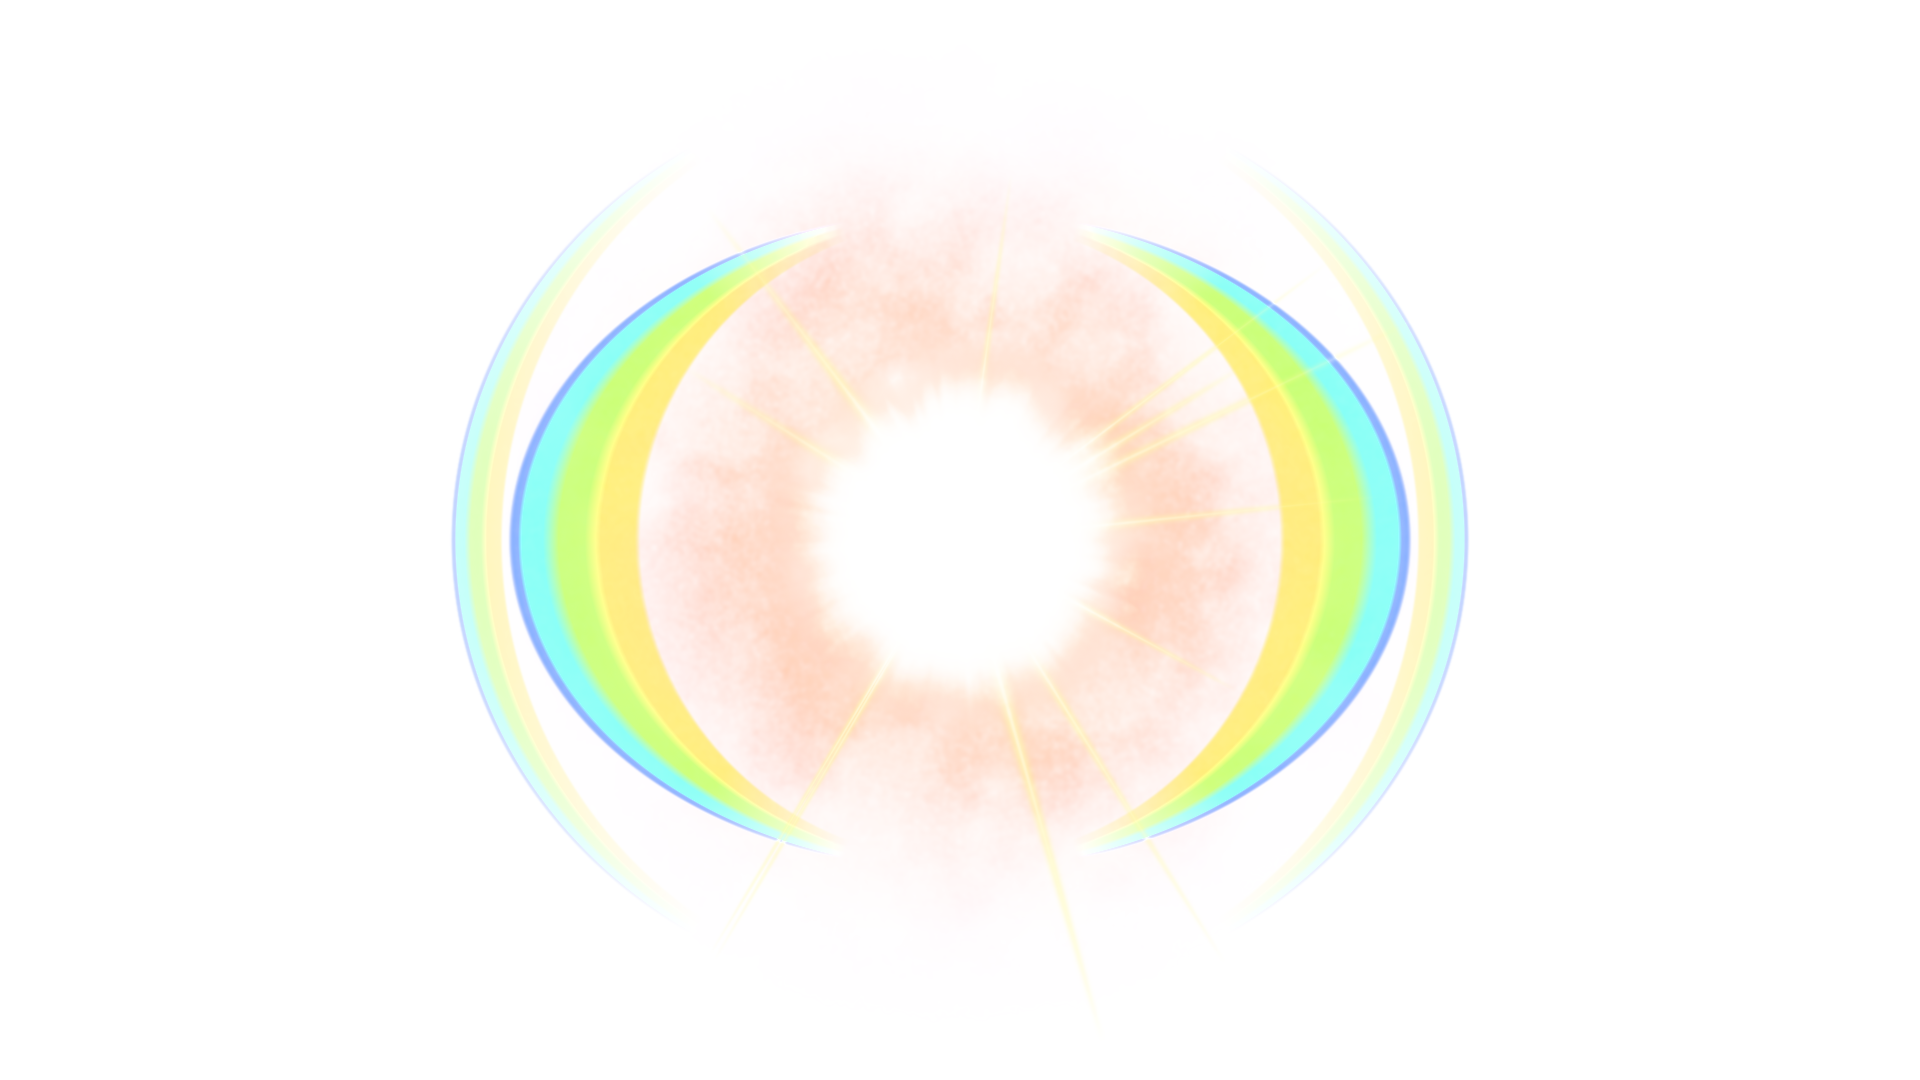
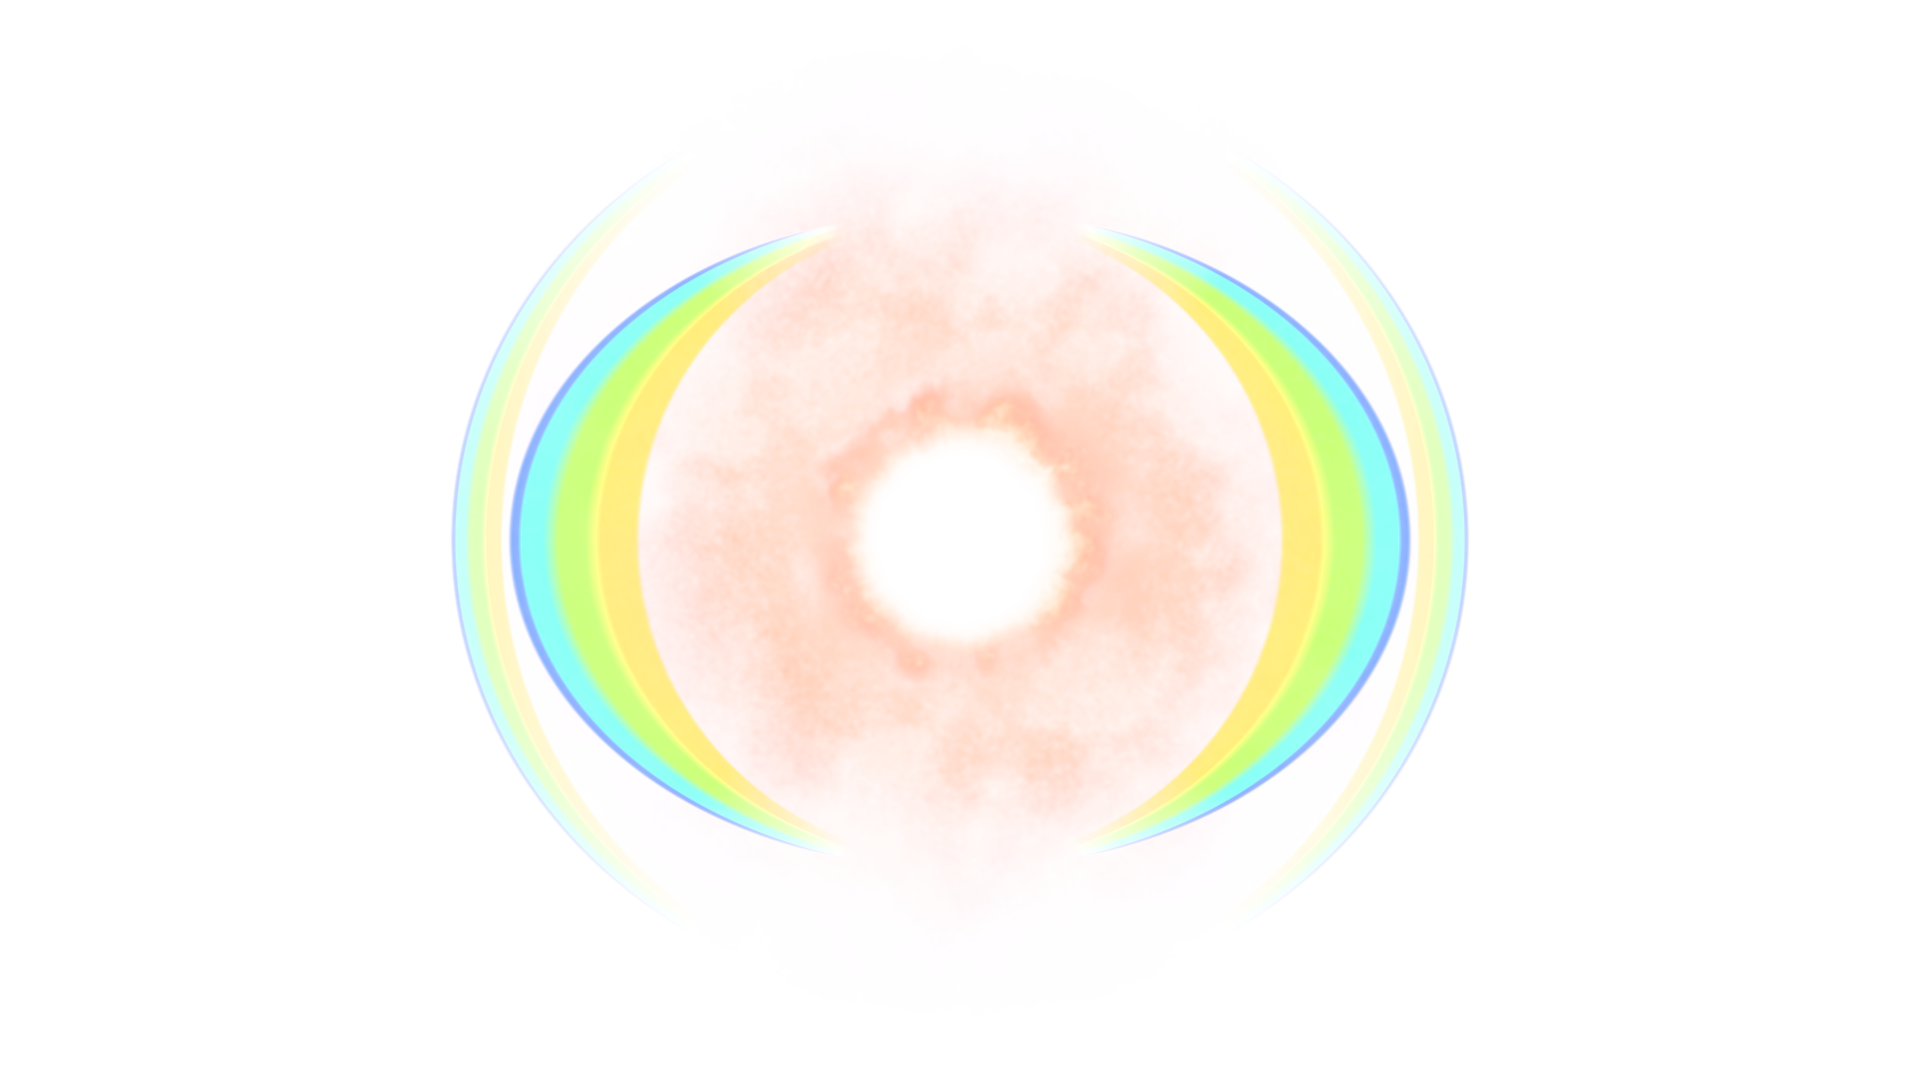
Efekt 10 küre: hüzmeler kaldırıldı, titanyum küçük ve net kenarlı, dışına yoğun duman hattı
Claude-Session: https://claude.ai/code/session_01E9c1WiJsMc9gXSJZ9D4z6g

diff --git a/arayuz/araclar/efekt10/kure.py b/arayuz/araclar/efekt10/kure.py
@@ -33,14 +33,20 @@ duman=np.clip(0.72+0.28*ndimage.gaussian_filter(fbm(17,[10,24,48],[0.6,1.0,0.8])
 dal=0.6*acisal(5,40,1.5)+0.4*acisal(6,90,1.0)
 Rd=R-10*dal
 dcol=renk_r(Rd,[(0,"#F4A482"),(105,"#F4A482"),(150,"#C07050"),(180,"#8C4A38"),(225,"#7A5050"),(260,"#6E5C6B"),(330,"#6E5C6B")])
-dyog=np.interp(Rd,[0,95,110,150,200,260,320],[0,0.0,0.95,0.6,0.28,0.12,0.0])
+dyog=np.interp(Rd,[0,80,100,150,200,260,320],[0,0.0,0.9,0.6,0.28,0.12,0.0])
 ekle(dyog*duman*(0.9+0.1*tane),dcol,1.0)
 # ---------- 1) ic cekirdek: isinsal dagilan, keskin olmayan ----------
 isinsal=0.5*acisal(21,64,0.8)+0.5*acisal(22,150,0.6)                    # kenarda isinsal saçilma
-Rc=R-7*np.clip(isinsal,-1.5,2.5)*np.clip((R-55)/30,0,1)
-ccol=renk_r(Rc,[(0,"#FFFFFF"),(68,"#FFFFFF"),(80,"#FFF2E6"),(94,"#FFD1BA"),(130,"#FFD1BA")])
-cyog=np.interp(Rc,[0,70,84,98,118],[2.6,2.4,1.5,0.7,0.0])
+Rc=R-2.5*np.clip(isinsal,-1.5,2.5)*np.clip((R-45)/20,0,1)
+ccol=renk_r(Rc,[(0,"#FFFFFF"),(50,"#FFFFFF"),(57,"#FFF2E6"),(64,"#FFD1BA"),(90,"#FFD1BA")])
+cyog=np.interp(Rc,[0,50,57,64,72],[2.6,2.4,1.6,0.8,0.0])          # kucuk, kenari net
 ekle(cyog,ccol,1.0)
+# ---------- 1b) titanyumun dis halkasi: yogun duman hatti ----------
+dh=np.clip(0.65+0.35*ndimage.gaussian_filter(fbm(57,[4,8,16],[0.5,1.0,0.7]),1.2),0.25,1.3)
+Rh=R-4*dal-3*np.clip(isinsal,-1.5,2.5)
+hcol=renk_r(Rh,[(60,"#F4A482"),(74,"#D08060"),(86,"#A85A42"),(96,"#8C4A38")])
+hyog=np.interp(Rh,[56,62,70,84,92,98],[0,1.2,1.7,1.5,0.6,0])
+ekle(hyog*dh*(0.92+0.08*tane),hcol,1.0)
 # ---------- 2b) keskin capraz isik huzmeleri ----------
 rg=np.random.default_rng(44)
 huzme=[]; 
@@ -53,7 +59,7 @@ for a,uz,en,g in huzme:
     boy=np.clip(1-R/uz,0,1)*np.clip((R-60)/25,0,1)                           # cekirdekten cikar, uca dogru solar
     w=en*(0.4+0.6*np.clip(1-R/uz,0,1))
     hm=np.maximum(hm,g*boy*np.exp(-(d/w)**2)); hc=np.maximum(hc,g*boy**1.5*np.exp(-(d/(w*0.35))**2))
-ekle(hm,rk("#FFF77D"),1.3); ekle(hc,rk("#FFFFD6"),1.2)
+# (isik huzmeleri kullanici istegiyle kaldirildi)
 # ---------- 3) dis katman: ic ice prizmatik hilal yaylar ----------
 def hilal(ic_r,ea,eb,g,kob):
     dis_r=1/np.sqrt((np.cos(A)/ea)**2+(np.sin(A)/eb)**2); kal=np.maximum(dis_r-ic_r,0)
